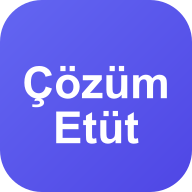
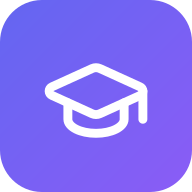
fix(pwa): ikon ve apex markası okulin oldu (eski 'Çözüm Etüt' kaldırıldı)
- Varsayılan PWA ikonları (icon-192/512, apple-touch, icon.svg) okulin markasıyla yeniden üretildi: gradient kare + mezuniyet kepi (Logo ile aynı). sharp ile SVG→PNG.
- Apex (okulin.com) artık platform markası: layout title/manifest 'okulin' (eskiden DEFAULT_ORG=testkurs'a düşüp 'Test Kurs' gösteriyordu). lib/org.js isApexHost + PLATFORM_BRANDING.
- Özel logosu olmayan kurumlar (testkurs) varsayılan okulin ikonuna düşer; kendi logosunu yükleyen kurum override eder (değişmedi).

diff --git a/lib/org.js b/lib/org.js
@@ -57,3 +57,18 @@ export function resolveOrg(host) {
 export function resolveBranch(host) {
   return branchFromHost(host) || 'main';
 }
+
+// Host apex mi (okulin.com / www.okulin.com)? Apex = tanıtım sayfası, kurum değil.
+export function isApexHost(host) {
+  if (!host || !APP_DOMAIN) return false;
+  const h = host.split(':')[0].toLowerCase();
+  return h === APP_DOMAIN || h === `www.${APP_DOMAIN}`;
+}
+
+// Platform (okulin) markası — apex tanıtım sayfası için (kurum-bağımsız).
+export const PLATFORM_BRANDING = {
+  name: 'okulin',
+  shortName: 'okulin',
+  logoUrl: '',
+  themeColor: '#6366f1',
+};

diff --git a/app/api/manifest/route.js b/app/api/manifest/route.js
@@ -1,15 +1,18 @@
+import { headers } from 'next/headers';
 import { rawRedis, currentOrg } from '@/lib/tenant';
 import { normalizeBranding } from '@/lib/branding';
+import { isApexHost, PLATFORM_BRANDING } from '@/lib/org';
 
 // Kuruma özel PWA manifest'i (multi-tenant Faz B tamamlayıcısı).
 // "Ana ekrana ekle" ile kurulan uygulamanın ADI / KISA ADI / TEMA RENGİ org'a göre gelir.
-// Kurum host'tan (subdomain) çözülür → cookie GEREKMEZ. Her istekte taze (no-store).
+// Apex (okulin.com) → platform (okulin) markası. Kurum host'tan çözülür → cookie GEREKMEZ.
 export const dynamic = 'force-dynamic';
 
 export async function GET() {
+  const apex = isApexHost(headers().get('host'));
   const org = currentOrg();
-  const rec = await rawRedis.get(`org:${org}`);
-  const b = normalizeBranding(rec);
+  const rec = apex ? null : await rawRedis.get(`org:${org}`);
+  const b = apex ? PLATFORM_BRANDING : normalizeBranding(rec);
 
   // Kuruma özel ikon: iconUrl (varsa) > logoUrl > varsayılan. Custom ikon arbitrer
   // görsel olabildiğinden (kare olmayabilir) purpose 'any' — maskable kırpma yok.

diff --git a/app/layout.js b/app/layout.js
@@ -2,12 +2,14 @@ import './globals.css';
 import { cache } from 'react';
 import { headers } from 'next/headers';
 import redis from '@/lib/redis';
-import { DEFAULT_ORG } from '@/lib/org';
+import { DEFAULT_ORG, isApexHost, PLATFORM_BRANDING } from '@/lib/org';
 import { normalizeBranding } from '@/lib/branding';
 
 // İstek başına bir kez okunur (React cache dedupe) — metadata + viewport aynı çağrıyı paylaşır.
 const getBranding = cache(async () => {
   try {
+    // Apex (okulin.com) → platform markası (kurum değil → tanıtım sayfası).
+    if (isApexHost(headers().get('host'))) return PLATFORM_BRANDING;
     const org = headers().get('x-org') || DEFAULT_ORG;
     const rec = await redis.get(`org:${org}`);
     return normalizeBranding(rec);